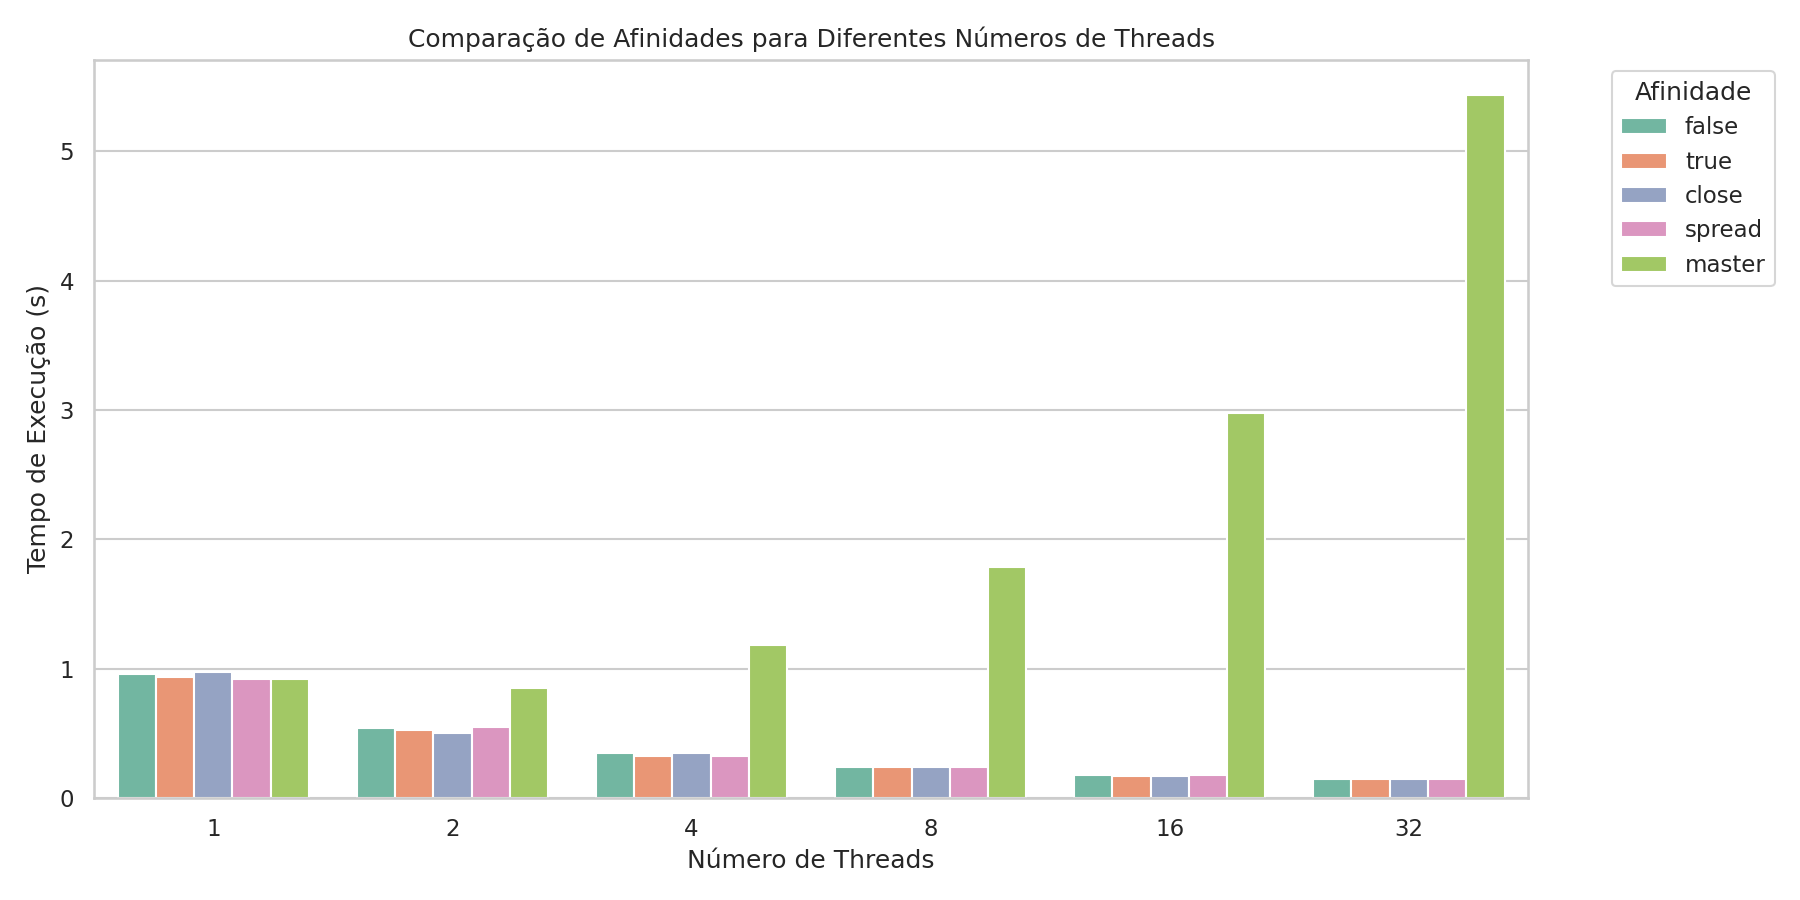
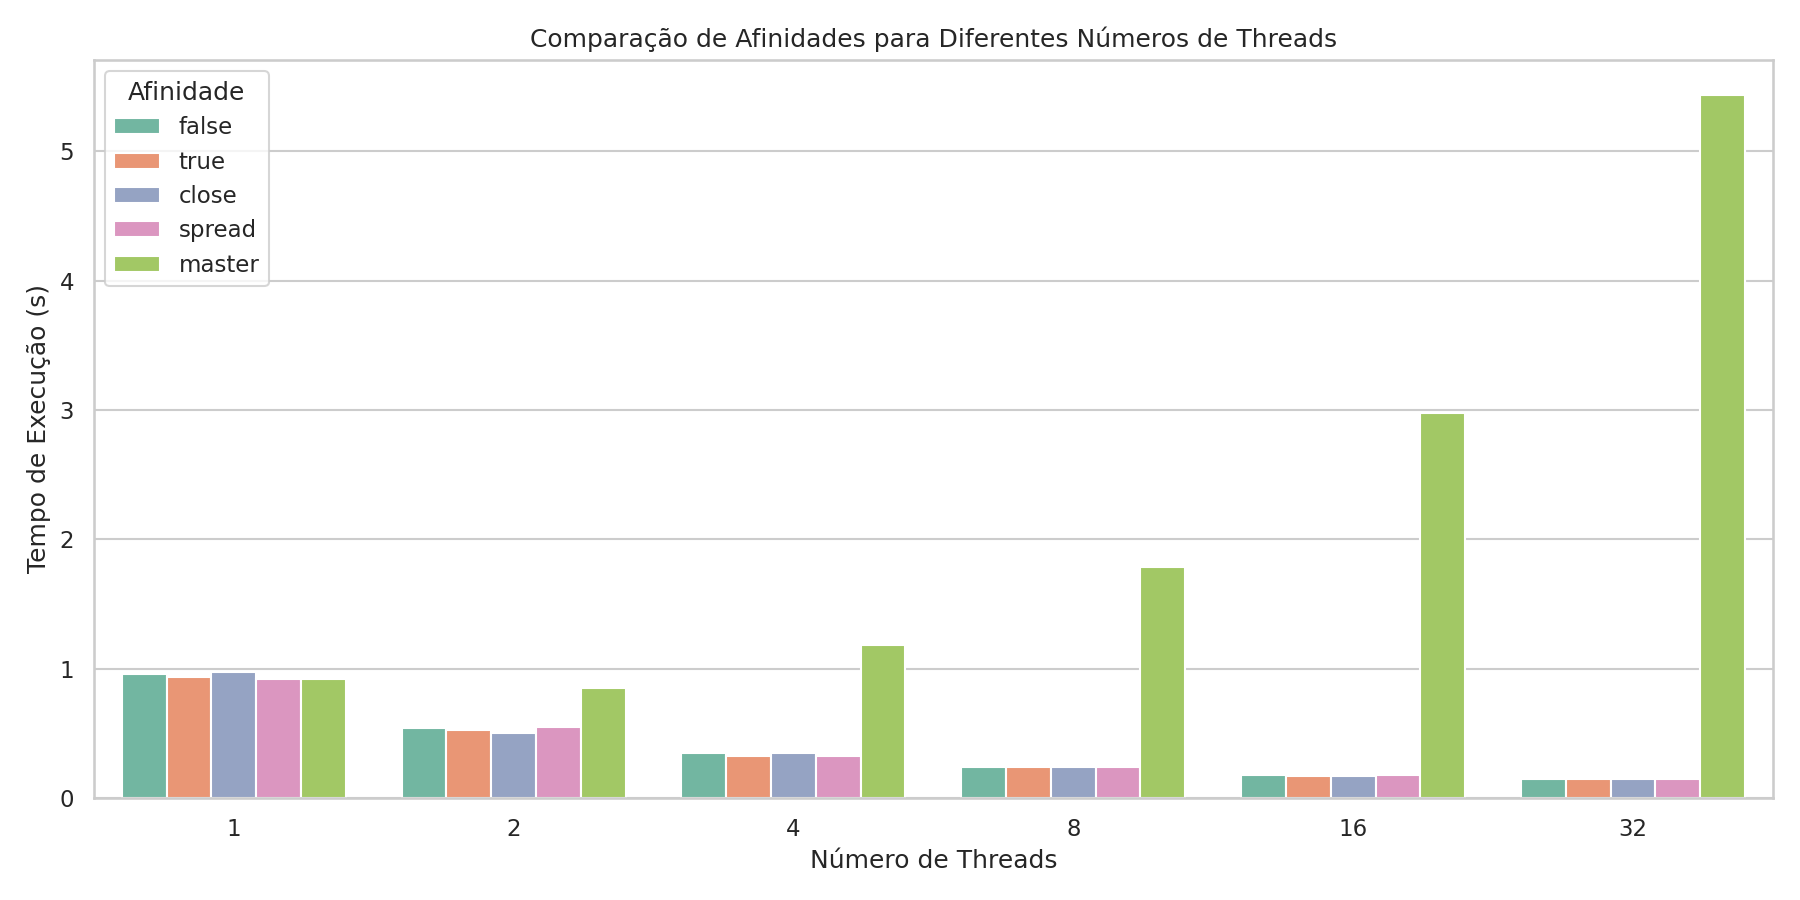
finish

diff --git a/tarefa13/graf.py b/tarefa13/graf.py
@@ -32,7 +32,7 @@ sns.barplot(data=df, x="threads", y="time", hue="affinity", palette="Set2")
 plt.title("Comparação de Afinidades para Diferentes Números de Threads")
 plt.xlabel("Número de Threads")
 plt.ylabel("Tempo de Execução (s)")
-plt.legend(title="Afinidade", bbox_to_anchor=(1.05, 1))
+plt.legend(title="Afinidade")
 plt.tight_layout()
 plt.savefig(f"{output_dir}/comparacao_afinidades_todas_threads.png")
 plt.close()
